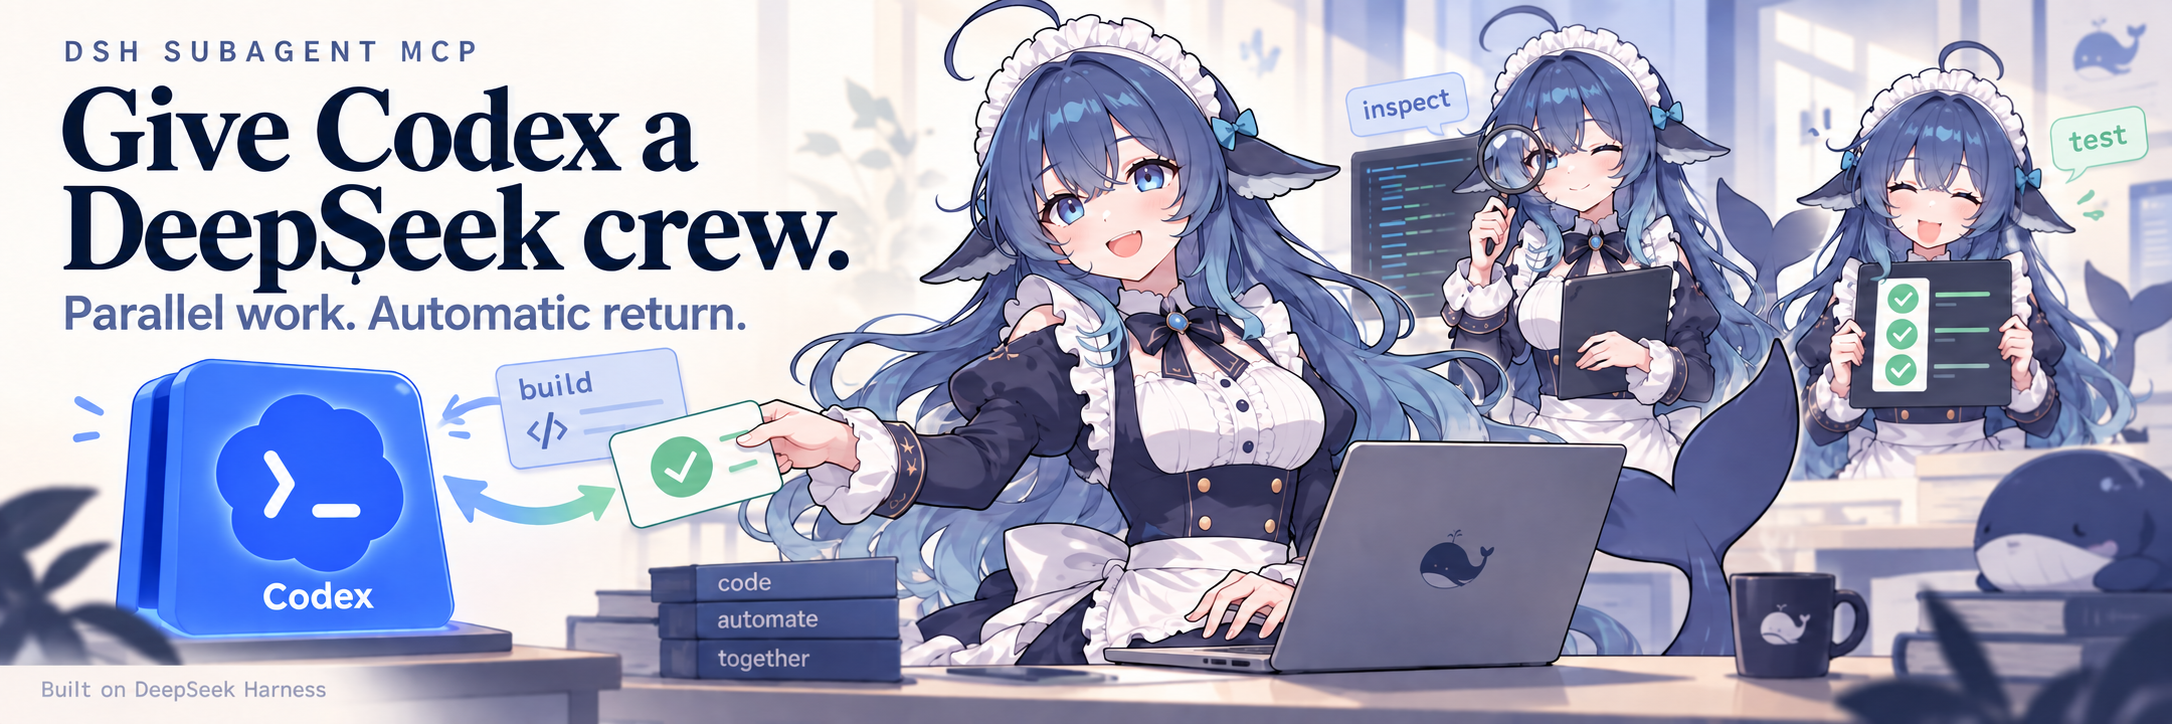
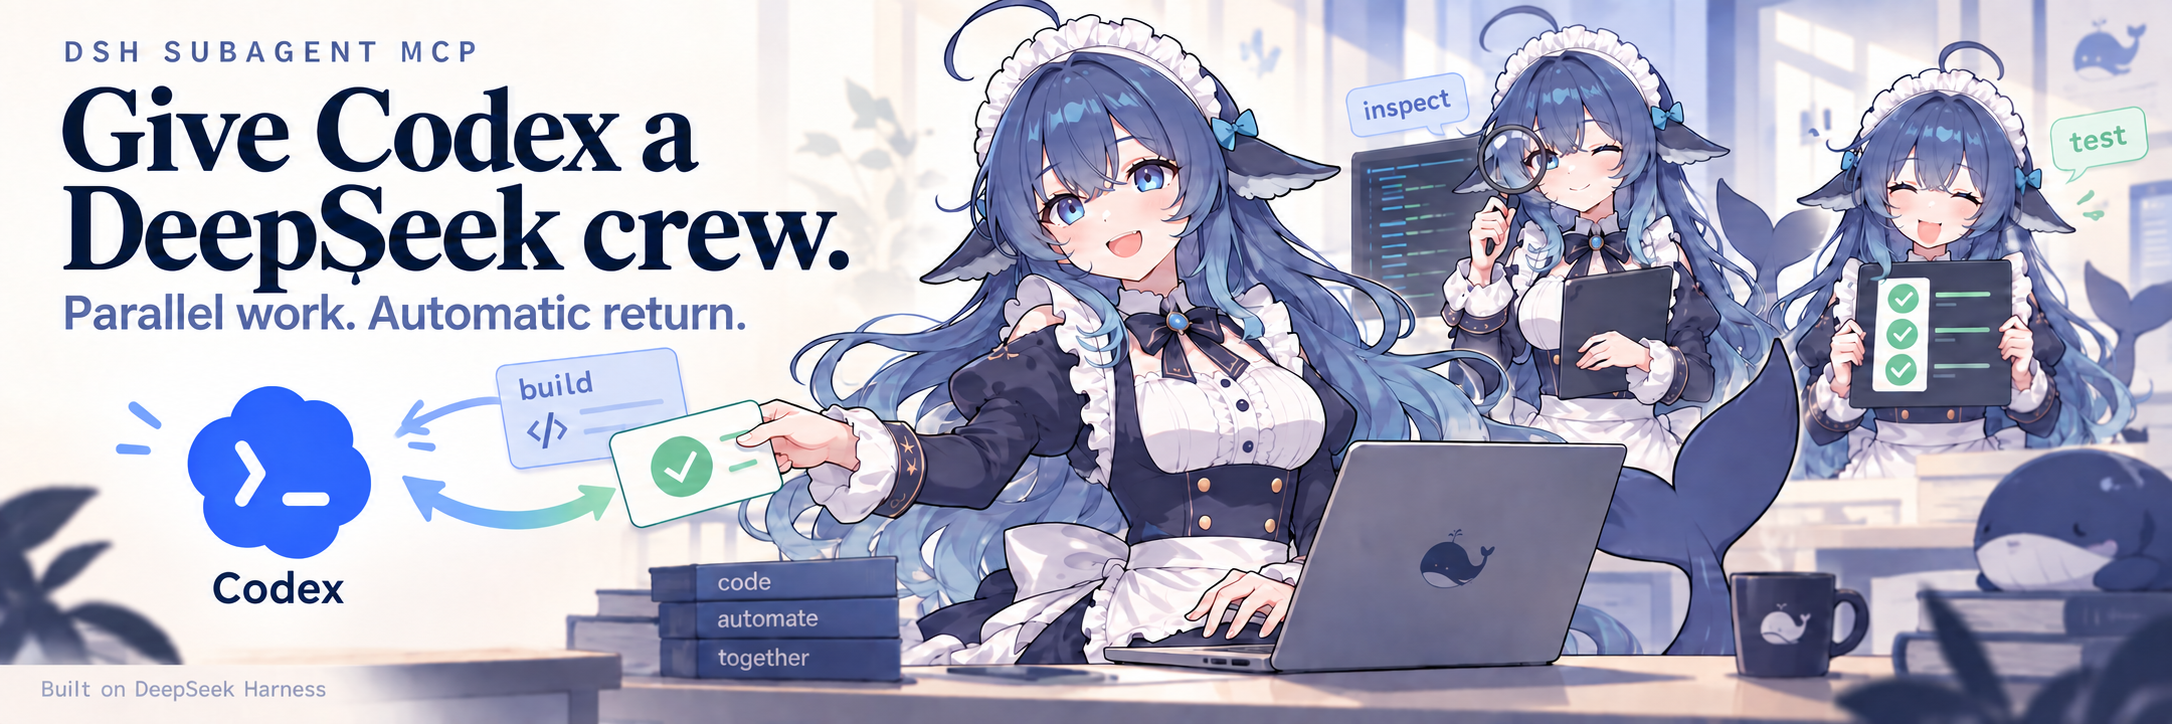
docs: replace Codex pedestal with a floating blue emblem

diff --git a/CHANGELOG.md b/CHANGELOG.md
@@ -1,5 +1,9 @@
 # Changelog
 
+## 0.5.3 — 2026-09-28
+
+- Refine the README artwork: a floating blue Codex emblem exchanges tasks and results with the whale-girl agents, without a slab or pedestal. Runtime behavior is unchanged.
+
 ## 0.5.2 — 2026-09-28
 
 - Give the README a distinct visual identity with the Codex terminal emblem and a whale-girl coding crew based on the supplied character reference.
